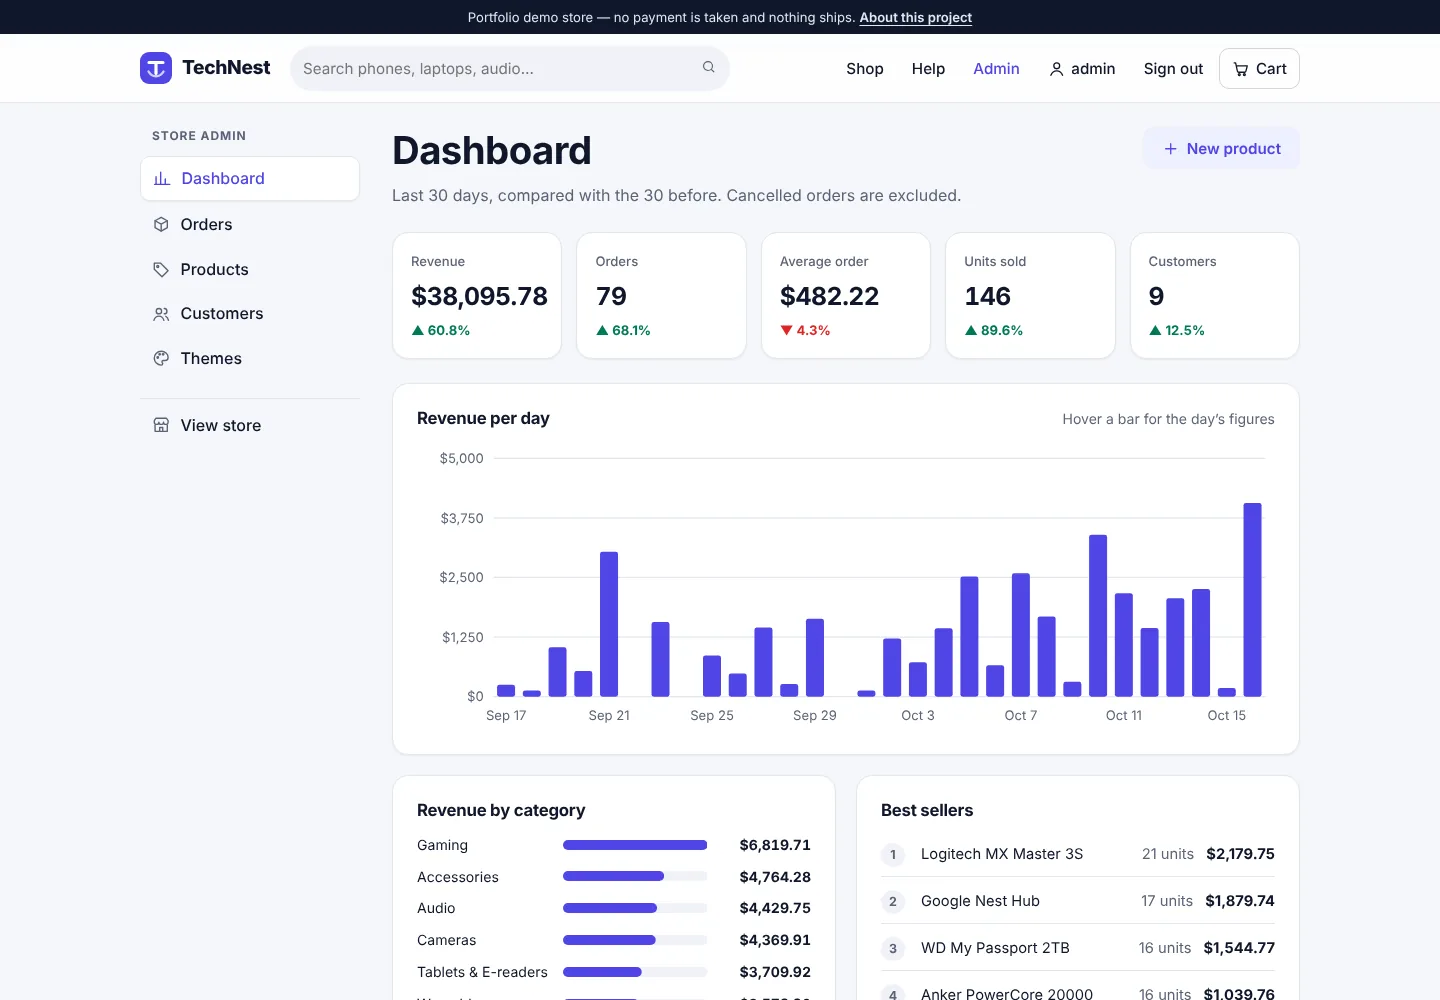
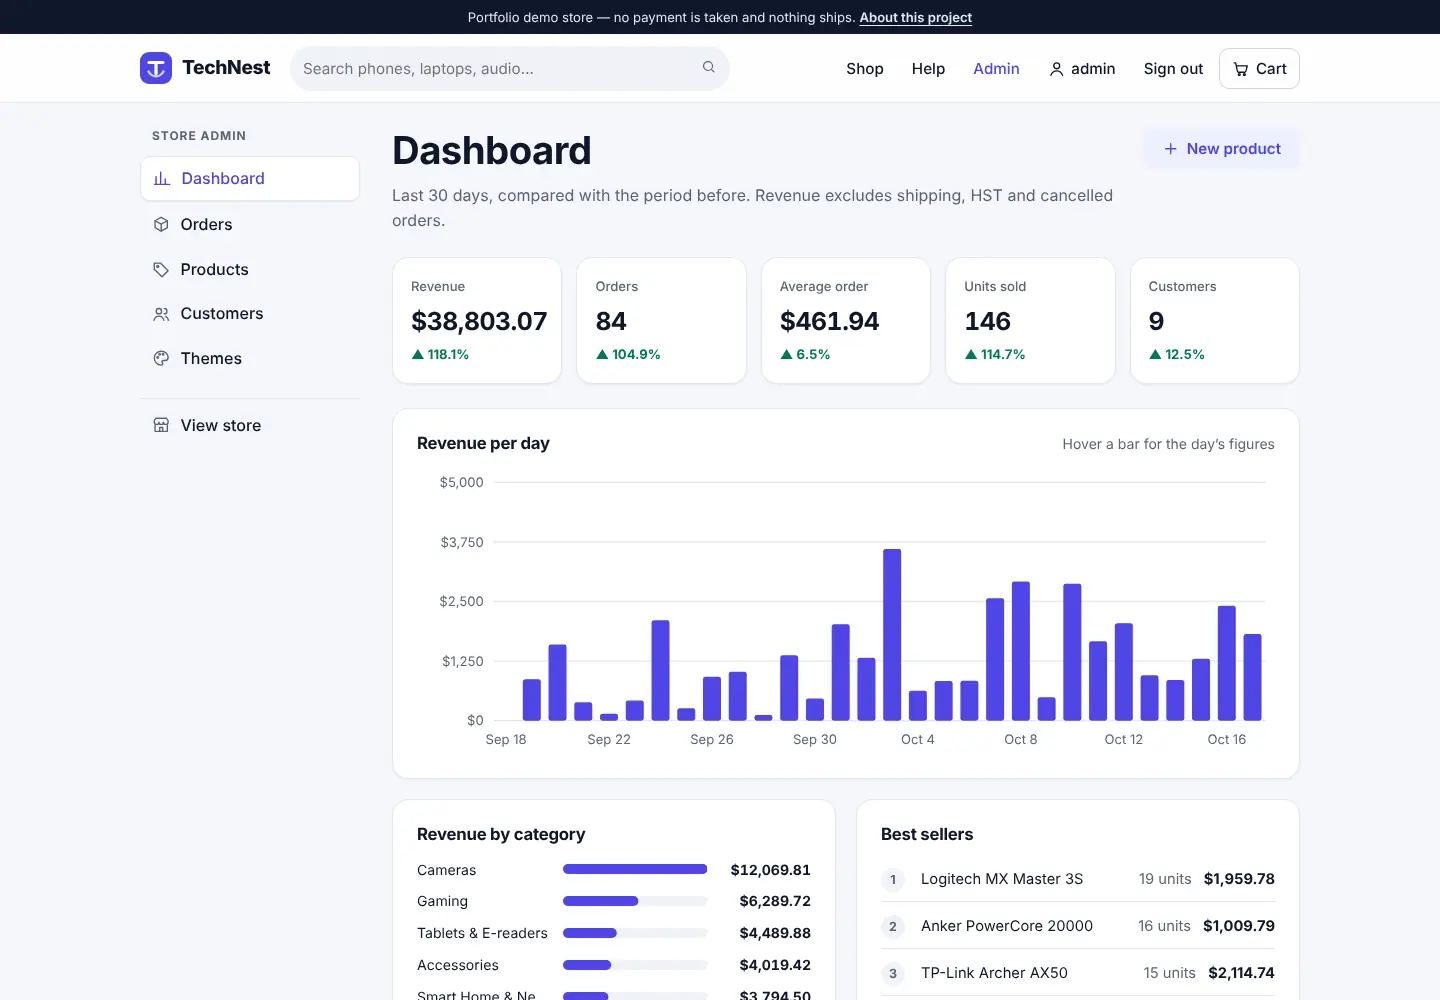
Keep page headings from pushing their actions onto a new row
The dashboard's subtitle is now longer than the space beside the "New
product" button, and the heading block took the whole row instead of
wrapping. The screenshot is retaken to show the new revenue figures.

Claude-Session: https://claude.ai/code/session_01Shb5UCDooV77MxXHbyQq92

diff --git a/public/assets/css/app.css b/public/assets/css/app.css
@@ -354,6 +354,8 @@ input[type="checkbox"], input[type="radio"] { width: auto; min-height: 0; accent
 
 .page-title { margin-bottom: 0.25em; }
 .page-head { display: flex; align-items: flex-start; justify-content: space-between; gap: 16px; flex-wrap: wrap; margin-bottom: 24px; }
+/* The heading block wraps its own text before it pushes the actions down. */
+.page-head > div:first-child { flex: 1 1 320px; min-width: 0; }
 .page-head__actions { display: flex; gap: 10px; flex-wrap: wrap; }
 
 .breadcrumbs { display: flex; align-items: center; flex-wrap: wrap; gap: 6px; font-size: 0.875rem; color: var(--muted); margin-bottom: 20px; }

diff --git a/templates/admin/dashboard.php b/templates/admin/dashboard.php
@@ -28,7 +28,7 @@ $delta = static function (int $now, int $before): ?float {
 <div class="page-head">
     <div>
         <h1 class="page-title">Dashboard</h1>
-        <p class="muted">Last <?= $days ?> days, compared with the same length of time before. Revenue is goods sold, before shipping and HST; cancelled orders are excluded.</p>
+        <p class="muted">Last <?= $days ?> days, compared with the period before. Revenue excludes shipping, HST and cancelled orders.</p>
     </div>
     <a class="button button--secondary" href="/admin/products/new"><?= $this->icon('plus') ?> New product</a>
 </div>
